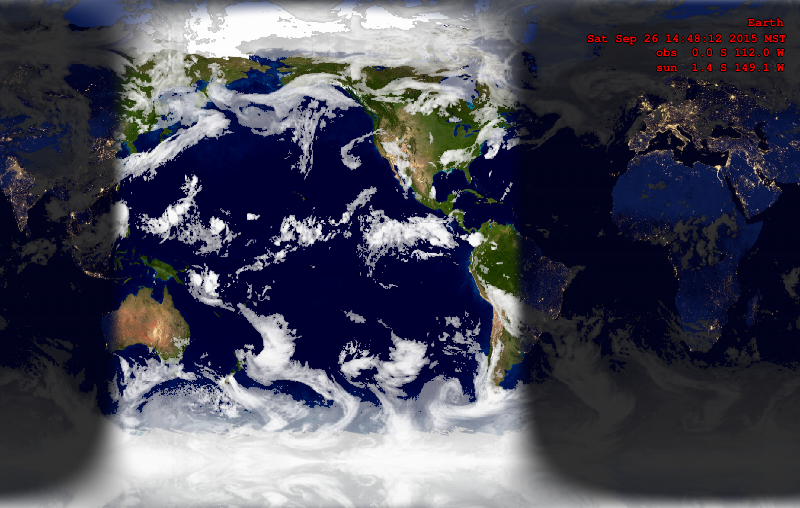
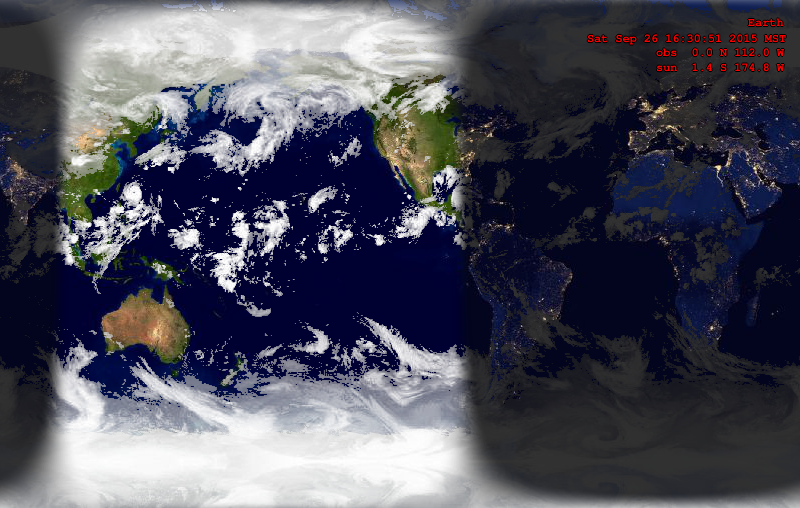
resize images, beginning of only update clouds every 4 hours

diff --git a/www/server/lib/xplanet.js b/www/server/lib/xplanet.js
@@ -1,11 +1,15 @@
 var shell = require('shelljs');
+var fs = require('fs');
+var path = require('path');
+
 
 var XPLANET_DEBUG=true;
 
 //This should return a url to an xplanet image
 function generateXplanetImage( timeout, callback ){
 
-  var theXplanetExec = '../../xplanet/build/bin/xplanet';
+  var theXplanetFolder = '../../xplanet/'
+  var theXplanetExec = theXplanetFolder + '/build/bin/xplanet';
   var theSourceDataPath = '../../xplanet/sourceData';
   var theConfFile = '../../xplanet/xplanet.conf';
   var theServerPath = '/img/'
@@ -35,13 +39,47 @@ function generateXplanetImage( timeout, callback ){
   }
 
   //TODO get cloud map every 4 hours
-  //timeout isn't a feature on shelljs right now... hopefully soon
-  shell.exec( theCmd, function( code, output ) {
-    if( code == 0 ){
-      callback( true, theReturnPath );
-    } else {
-      callback( false );
-    }
+  theCloudCmd = theXplanetFolder + 'xplanet_cloud.sh'
+  console.log( "Cloud cmd: " + theCloudCmd )
+
+  //The Shell cmd to generate xplanet
+  var theXplanetFunc = function(){
+    shell.exec( theCmd, function( code, output ) {
+      if( code == 0 ){
+        callback( true, theReturnPath );
+      } else {
+        callback( false );
+      }
+    });
+  }
+
+  var theCloudAndXplanetFunc = function(){
+    shell.exec( theXplanetFolder + 'xplanet_cloud.sh', function( code, output ){
+      theXplanetFunc();
+    } );
+  }
+
+  //make sure settings dir exists
+  var theSettingsFolder = './.settings'
+  var theClouldSettingsFile = theSettingsFolder + '/clouds.jsn'
+  var shouldGetClouds = true
+  fs.stat( theSettingsFolder, function( err, stat ) {
+      if( err != null && err.code == 'ENOENT' ) {
+          console.log( 'Creating settings dir' )
+          fs.mkdirSync( theSettingsFolder )
+      }
+
+      fs.stat( theClouldSettingsFile, function( err, stat ) {
+          if( err == null ) {
+            //read the file... set should get clouds to true if greater than 4 hours since last clouds
+          }
+
+          if( shouldGetClouds ){
+            theCloudAndXplanetFunc();
+          } else {
+            theXplanetFunc();
+          }
+      });
   });
 }
 
